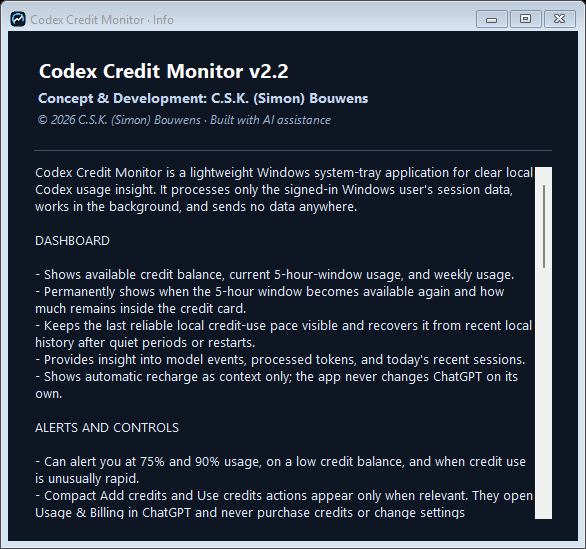
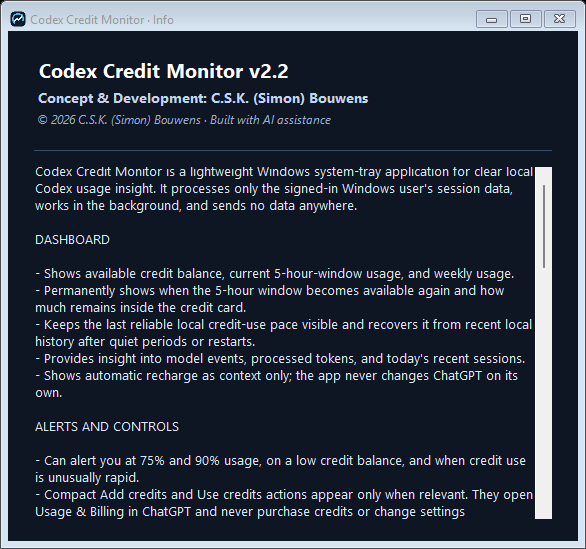
Record final v2.2 verification and checksums

diff --git a/Doc/2026-09-06_CHANGESET_003.md b/Doc/2026-09-06_CHANGESET_003.md
@@ -209,10 +209,10 @@ Wanneer alle draaiende ChatGPT- en Codex-processen worden afgesloten, verdwijnt 
 - Info: twee frames met verschillende scrollposities bevestigen directe, vloeiende pixelbeweging; hover-pauze en hervatten blijven gekoppeld.
 - Proceslevenscyclus: de initiële launcher eindigt en de reagerende tray-instantie blijft actief nadat haar ouderproces verdwenen is.
 - GitHub-publicatie: door de gebruiker op 7 september 2026 expliciet vrijgegeven; definitieve live controle volgt na upload.
-- Definitieve self-contained app: productversie `2.2.0+0da4e2605105ccb8aa27a07408cfecb7af4d77b0`; tempoverificatie geslaagd en de actuele 5-uurslimiet werd in circa 0,09 seconde gelezen.
+- Definitieve self-contained app: productversie `2.2.0+a2f8bc83037e9be83ba87a02b3737535b614b228`; tempoverificatie geslaagd en de actuele 5-uurslimiet werd binnen een seconde gelezen.
 - PortableApps: launcher opnieuw opgebouwd met de officiële lokale generator; CRC-controle en schone start vanuit een uitgepakte ZIP geslaagd.
 - MSI: pakketbouw en administratieve Windows Installer-extractie geslaagd; de verpakte app doorstaat de tempoverificatie. Een stille per-machine-installatie vraagt volgens ontwerp administratorrechten en kon binnen de niet-verhoogde testsessie niet worden voltooid.
[2 lines of base64/hex data omitted]
 
 ## Centrale QA-artefacten
 

diff --git a/Doc/GitHub-README-v2.2.md b/Doc/GitHub-README-v2.2.md
@@ -72,8 +72,8 @@ The Info window dynamically reads the bundled Dutch and English product descript
 [Download SHA256SUMS.txt](https://github.com/sibosays/CodexCreditMonitor/releases/latest/download/SHA256SUMS.txt) and compare the SHA-256 value of your chosen package:
 
 ```text
-EFF06BC3BFFAA8EED86260A14873C7AD1A4AAE9530133B6E9F9575127F64FFC2  CodexCreditMonitorSetup_2.2_x64.msi
-908397C3D632C7E65486981C45F400C73C61B6320A65BA96ACAC6D4DD41F123D  CodexCreditMonitorPortable_2.2.zip
+96C8F6B57E9ACF331F4CBA8F62C4827DD668AFF838AC742A92C69AE02C7224A5  CodexCreditMonitorSetup_2.2_x64.msi
+04FE3ED45DE377C21BC24644A3FEF50C903E664828A0D5918909F022F8B4277B  CodexCreditMonitorPortable_2.2.zip
 ```
 
 ## What is new in v2.2?
